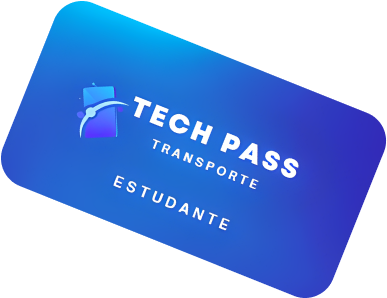
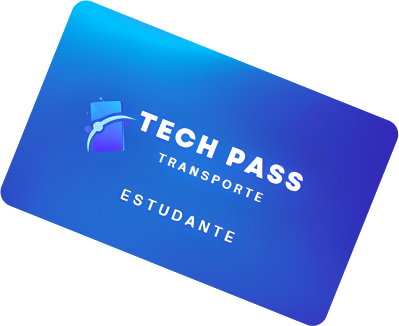
#

diff --git a/front_end/publico/index.html b/front_end/publico/index.html
@@ -38,7 +38,7 @@
         <div class=" container-md   justify-content-between align-items-center  row">
           <div class="d-flex flex-column row-gap-2  inline text-light col-md-6 mr-auto" id="texto-banner">
             <h4 class=" text-primary">Alto Recarga</h4>
-            <h1 class=" ps-4">Simplifique sua experiencia de transporte</h1>
+            <h1>Simplifique sua experiencia de transporte</h1>
             <p class="">Solicite já o seu cartão e pague menos em todas as viagens</p>
             <a href="#:" class="btn btn-outline-primary mt-3 rounded-pill " href="#" role="button"
               style="width: fit-content;">Adquirá já</a>
@@ -47,7 +47,7 @@
           <div class="d-none  flex-column col-6 col-md-5 d-md-flex  bg-error">
             <img src="img/card-banner-bottom.png" class="" id="img-top-banner">
             <img src="img/card-banner-meio.png" class="" id="img-meio-banner">
-            <img src="img/card-banner-bottom.png" class="" id="img-bottom-banner">
+            <img src="img/card-banner-bottom2.png" class="" id="img-bottom-banner">
           </div>
         </div>
 
@@ -59,7 +59,7 @@
           <h1 class="">Modernidade para o transporte e facilidade para a sua empresa.</h1>
           <p class="ps-4  pt-3">Conheça as modalidades oferecidas e as vantagens para sua empresa e seus colaboradores
             ao adquirir o Vale
-            Transporte BHBUS.</p>
+            Transporte.</p>
         </div>
         <img src="img/carinha com cartão.png" alt="carinha com cartão" class="col-sm-4  ">
       </section>
@@ -156,8 +156,8 @@
 
 
       <!-- botoes -->
-      <div class="container-fluid  d-sm-flex  align-items-center justify-content-center " style="margin-bottom: 1rem;"
-        id="botoesmenu">
+      <div class="container-fluid d-block d-lg-flex align-items-center justify-content-center "
+        style="margin-bottom: 1rem;" id="botoesmenu">
 
         <div class=" mx-5  my-5">
 
@@ -228,7 +228,7 @@
                 <svg width="64px" height="64px" viewBox="-2.4 -2.4 28.80 28.80" fill="none"
                   xmlns="http://www.w3.org/2000/svg">
                   <g id="SVGRepo_bgCarrier" stroke-width="0">
-                    <rect x="-2.4" y="-2.4" width="28.80" height="28.80" rx="14.4" fill="#7ed0ec" strokewidth="0">
+                    <rect x="-2.4" y="-2.4" width="28.80" height="28.80" rx="14.4" fill="#1E90FF" strokewidth="0">
                     </rect>
                   </g>
                   <g id="SVGRepo_tracerCarrier" stroke-linecap="round" stroke-linejoin="round"></g>

diff --git a/front_end/publico/css/style.css b/front_end/publico/css/style.css
@@ -35,7 +35,7 @@ main .banner{
 }
 
 .banner div img{
-    width: 66%;
+    width: 60%;
     transition: 0.5s;
 }
 
@@ -45,21 +45,26 @@ main .banner{
 
 #img-top-banner{
     margin-left: auto;
+    z-index: 2;
 }
 
 
 #img-meio-banner{
     margin-right: auto;
-    margin-top: calc(1vw * -7);
+    margin-left: 15%;
+    margin-top: calc(1vw * -5);
+z-index: 2;
 }
 
 
 #img-bottom-banner{
-    margin-top: calc(1vw * -5);
+    margin-top: calc(1vw * -6);
     margin-left: auto;
- }
+    z-index:1;
+}
+ 
 
-
+ 
 #parte1 div{
     max-width: 480px;
 }
